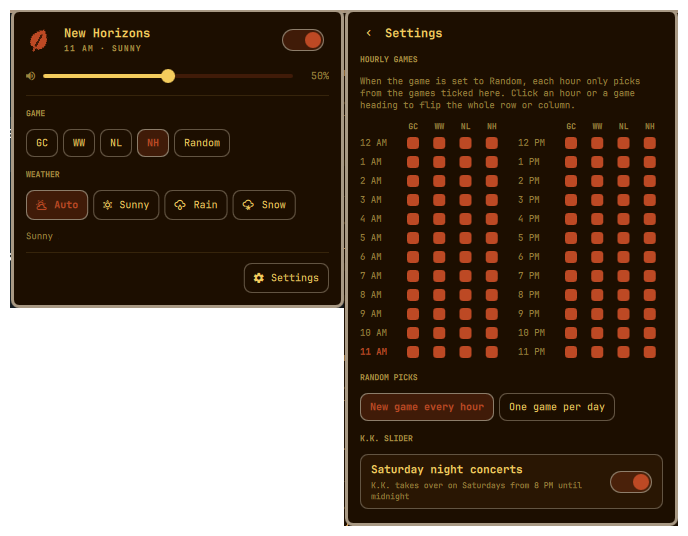
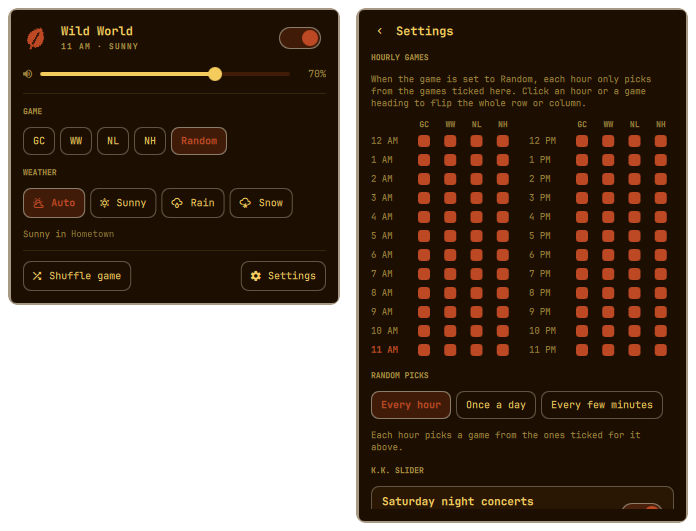
Detailed README with fresh screenshots; Space/Enter toggle playback
Rewrite the README to cover every control and setting: the bar icon, the
panel, each settings section, random-pick behavior, K.K. rules, other-media
and login options, the CLI, the config file keys, updating, troubleshooting,
and what the plugin talks to over the network. Add screenshots of the panel,
K.K. mode, the on-hold state, and both halves of Settings.

Space and Enter reach the panel as activate rather than text keys, so they
did nothing; they now play/pause as documented.

Changed region(s): [[0.0, 0.0, 1.0, 0.9944]]

diff --git a/Panel.qml b/Panel.qml
@@ -129,9 +129,11 @@ Panel {
         else root.close()
       }
       onTabRequested: function(direction) { root.switchPanel(direction) }
+      // Space and Enter arrive here rather than as text keys.
+      onActivateRequested: if (root.svc) root.svc.togglePlaying()
       onTextKey: function(t) {
         if (!root.svc) return
-        if (t === "p" || t === " ") root.svc.togglePlaying()
+        if (t === "p") root.svc.togglePlaying()
         else if (t === "n") root.svc.next()
         else if (t === "s") root.view = root.view === "main" ? "settings" : "main"
       }

diff --git a/README.md b/README.md
@@ -1,25 +1,50 @@
 # AC Hourly Music for Omarchy
 
-Animal Crossing's hourly music in your Omarchy bar. A leaf sits in the bar.
-Every hour on the hour the music changes, just like in the games. It can
-follow your real weather with the rain and snow versions, and K.K. Slider
-takes over on Saturday nights.
+Animal Crossing's hourly music in your [Omarchy](https://omarchy.org) bar.
 
-Nothing is downloaded to your machine; tracks stream on demand.
+A small leaf sits in your bar. Every hour, on the hour, the music changes to
+that hour's theme, just like in the games. It can follow your real weather
+with the rain and snow versions, mix the four games together, step aside
+when you play something else, and hand the stage to K.K. Slider on Saturday
+nights.
+
+Nothing is stored on your machine. Tracks stream on demand.
 
 ![The panel and its settings](preview.png)
 
+## Contents
+
+- [Features](#features)
+- [Install](#install)
+- [The bar icon](#the-bar-icon)
+- [The panel](#the-panel)
+- [Settings](#settings)
+  - [Hourly games](#hourly-games)
+  - [Random picks](#random-picks)
+  - [K.K. Slider](#kk-slider)
+  - [Playback](#playback)
+  - [When other media plays](#when-other-media-plays)
+  - [When I log in](#when-i-log-in)
+  - [Weather location](#weather-location)
+- [Command line and keybinds](#command-line-and-keybinds)
+- [Config file](#config-file)
+- [Updating and uninstalling](#updating-and-uninstalling)
+- [Troubleshooting](#troubleshooting)
+- [Network and privacy](#network-and-privacy)
+- [Credits](#credits)
+
 ## Features
 
-- **Four games:** Animal Crossing (GameCube), Wild World / City Folk, New Leaf, New Horizons, or **Random**.
-- **Real weather:** *Auto* plays the rain and snow versions when it's raining or snowing where you are. You can also lock it to Sunny, Rain, or Snow.
-- **Per-hour picks:** a 24-hour grid in Settings controls which games Random can choose for each hour. Don't like New Leaf's 11 AM theme? Untick it.
-- **Random every hour, once a day, or every few minutes:** shuffle between games' versions of the current hour's song every 10, 15, or 30 minutes, or any interval you like.
-- **K.K. Slider:** Saturday night concerts from 8 PM until midnight, or K.K. all the time. Choose live, aircheck, or both versions.
-- **Seamless loops:** songs loop at the game's loop points instead of restarting the intro.
-- **Steps aside for other media:** when YouTube Music, Spotify, a video, or any other media player starts, the music pauses (or drops its volume) and comes back on its own a few seconds after that stops.
-- **Your choice at login:** start playing automatically, wait for you to press play, or pick up where you left off.
-- Fades between tracks and can show a notification when the track changes.
+- **Four games:** Animal Crossing (GameCube), Wild World / City Folk, New Leaf, and New Horizons, or **Random** to mix them.
+- **Real weather:** on *Auto*, you hear the rain and snow versions when it's raining or snowing where you are. You can also lock it to Sunny, Rain, or Snow.
+- **Per-hour picks:** a 24-hour grid decides which games Random may choose each hour. Don't like New Leaf's 11 AM theme? Untick it and it never plays at 11 AM.
+- **Three ways to mix:** a new game every hour, one game all day, or switch every few minutes (10, 15, 30, or any interval you like).
+- **K.K. Slider:** Saturday night concerts from 8 PM to midnight, or K.K. all the time. Pick live versions, aircheck versions, or both.
+- **Seamless loops:** each song loops at the game's own loop point instead of restarting its intro.
+- **Steps aside for other media:** when YouTube Music, Spotify, a video, or any other player starts, the music pauses or turns down. It comes back by itself when that stops.
+- **Your choice at login:** start playing, wait for you to press play, or pick up where you left off.
+- **Fits Omarchy:** uses Omarchy's own panel styling, follows your theme, and works with any bar position.
+- **Scriptable:** a small `ac-music` command for terminals and keybinds.
 
 ## Install
 
@@ -27,63 +52,280 @@ Nothing is downloaded to your machine; tracks stream on demand.
 omarchy plugin add https://github.com/NinDaniel/omarchy-ac-music --enable
 ```
 
-The plugin needs `mpv` and `curl`, which Omarchy ships by default.
+The leaf appears on the right side of your bar and the music starts.
 
-## Using it
+**Requirements:** `mpv` and `curl`. Both come with Omarchy.
 
-| On the leaf  | Does                                         |
-|--------------|----------------------------------------------|
-| Left click   | Open the panel                               |
-| Right click  | Play / pause                                 |
-| Middle click | Shuffle to another game (Random) or skip a K.K. song |
-| Scroll       | Volume                                       |
+**Moving the leaf:** drag it along the bar like any other widget, or run:
 
-Inside the panel, press `p` to play or pause, `n` for next, `s` for Settings, and `Esc` to go back or close.
+```bash
+omarchy bar move danr.ac-music --section left    # left | center | right
+```
+
+## The bar icon
+
+| On the leaf  | What it does                                                  |
+|--------------|---------------------------------------------------------------|
+| Hover        | Shows what's playing (and whether it's paused or on hold)     |
+| Left click   | Opens the panel                                               |
+| Right click  | Play / pause                                                  |
+| Middle click | Shuffle to another game (Random) or skip to the next K.K. song |
+| Scroll       | Volume up / down in 5% steps                                  |
+
+The leaf is dimmed while the music is paused, on hold, or turned down.
+
+## The panel
+
+<p>
+  <img src="docs/panel.png" width="32%" alt="The main panel">
+  <img src="docs/kk.png" width="32%" alt="K.K. Slider playing">
+  <img src="docs/on-hold.png" width="32%" alt="On hold while another player plays">
+</p>
+
+From top to bottom:
+
+- **Now playing:** the game (or *K.K. Slider*) with the hour and weather underneath, or the song title and version during K.K. The switch on the right plays and pauses. A **Paused** or **On hold** tag shows when the music isn't playing.
+- **Volume:** the slider sets the plugin's own volume, separate from your system volume.
+- **Game:** **GC** (Animal Crossing on GameCube), **WW** (Wild World / City Folk), **NL** (New Leaf), **NH** (New Horizons), or **Random**. Hover a button for the full name. Picking a specific game always plays that game; the per-hour grid only applies to Random.
+- **Weather:** **Auto** follows the real weather. **Sunny**, **Rain**, and **Snow** lock it. On Auto, the line underneath shows the current conditions and where they're from.
+- **On hold:** when another player is playing, a line explains that the music is paused (or quieter) and will come back on its own.
+- **Shuffle game / Next song:** shows when it's useful. On Random it rolls a different game for now; during K.K. it skips to another song.
+- **Settings:** opens the settings view.
+
+**Keyboard**, while the panel is open:
+
+| Key         | Action                                      |
+|-------------|---------------------------------------------|
+| `p`, Space, or Enter | Play / pause                    |
+| `n`         | Shuffle game / next K.K. song               |
+| `s`         | Switch between the panel and Settings       |
+| `Esc`       | Back out of Settings, or close the panel    |
+| `Tab`       | Move to the neighbouring bar panel          |
+
+## Settings
+
+<p>
+  <img src="docs/settings-top.png" width="48%" alt="Settings: hourly games grid and random picks">
+  <img src="docs/settings-bottom.png" width="48%" alt="Settings: K.K., playback, other media, login, weather">
+</p>
+
+Every change saves immediately; there's no Save button.
+
+### Hourly games
+
+A grid of 24 hours by 4 games. When the game is set to **Random**, each hour
+only picks from the games ticked for that hour.
+
+- Click a box to tick or untick one game for one hour.
+- Click an **hour** (like `11 AM`) to tick or untick all four games for that hour.
+- Click a **game heading** (like `NL`) to tick or untick that game for all twelve hours in that half of the grid (AM or PM).
+- The current hour is highlighted.
+- An hour with **nothing** ticked behaves as if everything is ticked, so it never goes silent.
+
+The grid has no effect when you've picked a specific game.
+
+### Random picks
+
+How Random chooses a game. The line under the buttons explains the selected option.
+
+| Option                | What you hear |
+|-----------------------|---------------|
+| **Every hour**        | A new game each hour, chosen from that hour's ticked games. |
+| **Once a day**        | One game all day, from midnight to midnight on your computer's clock. If that game is unticked for some hour, that hour picks from its ticked games instead, then the day's game comes back. |
+| **Every few minutes** | Switches between the games' versions of the *current hour's* song. Pick **10 min**, **15 min**, **30 min**, or **Custom** (1 to 60 minutes). |
+
+Details worth knowing:
+
+- Picks are **stable**. The game is worked out from the date and hour, so restarting your computer or the shell mid-hour doesn't change what's playing.
+- **Every few minutes** lines up with the clock. At 15 minutes it switches at :00, :15, :30, and :45. With a custom interval that doesn't divide the hour, like 7 minutes, the last stretch before the hour is shorter, and the hour change always starts fresh.
+- Each hour gets its own shuffled order of games. Every switch lands on a **different** game, and all of the hour's ticked games play before any repeat. If only one game is ticked for an hour, it simply stays on that game.
+- **Shuffle game** (or a middle click) rolls a new pick or a new order. That lasts until the next hour.
+
+### K.K. Slider
+
+| Setting                     | What it does |
+|-----------------------------|--------------|
+| **Saturday night concerts** | K.K. takes over every Saturday from 8 PM until midnight (your local time), like in the games. On by default. |
+| **K.K. all the time**       | Plays K.K. songs instead of the hourly music, any day and any time. |
+| **Live / Aircheck / Both**  | *Live* is K.K. with his guitar; *Aircheck* is the full-band radio version; *Both* picks either at random for each song. |
+
+During K.K., songs play through once and the next starts automatically. They're
+drawn from 92 songs across the series and won't repeat until 20 others have
+played. The Game and Weather choices are ignored until K.K. is over.
+
+### Playback
+
+| Setting                 | What it does |
+|-------------------------|--------------|
+| **Fade between tracks** | Fades the old song out over about a second and a half when the hour, weather, or game changes. Off means an instant switch. |
+| **Notify on new track** | Shows a desktop notification with the game and hour (or K.K. song) whenever the music changes. Off by default. |
+
+### When other media plays
+
+Anything that shows up in Omarchy's media controls counts: YouTube or YouTube
+Music in a browser, Spotify, a video, VLC, and so on.
+
+| Option           | What happens |
+|------------------|--------------|
+| **Pause**        | The music pauses as soon as the other player starts (default). |
+| **Lower volume** | The music keeps going at a quarter of your volume. |
+| **Keep playing** | Nothing changes. |
+
+Once every other player has stopped or paused, the music comes back after about
+**3 seconds**. That short wait means the gap between two YouTube songs doesn't
+make it jump back in. Apps that don't report to the media controls (most games,
+for example) won't trigger it.
+
+### When I log in
+
+| Option            | What happens when you log in |
+|-------------------|------------------------------|
+| **Start playing** | The music starts every time (default). |
+| **Wait for me**   | It stays paused until you press play, then plays for the rest of that session. |
+| **Remember**      | It plays if it was playing when you logged out, and stays paused if it wasn't. |
+
+Only a real login counts. Restarting the Omarchy shell or updating the plugin
+keeps whatever was already happening.
 
 ### Weather location
 
-Auto weather uses the location set in Omarchy's own weather widget. If none is set, it detects your location the same way that widget does. To change it, set a location in the weather widget and the music follows.
+Auto weather uses the location set in **Omarchy's weather widget**. If you
+haven't set one, the plugin works out your location the same way that widget
+does (from your IP address). To change it, set a location in the weather widget
+and the music follows along; there's nothing to configure here.
 
-### Command line and keybinds
+The weather is checked when the plugin starts and every 20 minutes after that.
+Rain covers drizzle, rain, freezing rain, showers, and thunderstorms. Snow covers
+snowfall, snow grains, and snow showers. Everything else, cloudy and foggy
+included, counts as sunny.
 
-`bin/ac-music` wraps the plugin's IPC:
+The original GameCube game has no rain music, so on a rainy day it plays its
+sunny version (the panel says so).
 
-```bash
-ac-music toggle            # play / pause
-ac-music next
-ac-music game new-leaf     # animal-crossing | wild-world | new-leaf | new-horizons | random
-ac-music weather rain      # auto | sunny | rain | snow
-ac-music volume +5
-ac-music kk                # K.K. all the time on/off
-ac-music settings          # open the panel on Settings
-ac-music status
-```
+## Command line and keybinds
 
-To put it on your PATH:
+The plugin includes a small `ac-music` command. To put it on your PATH:
 
 ```bash
 ln -s ~/.config/omarchy/plugins/danr.ac-music/bin/ac-music ~/.local/bin/ac-music
 ```
 
-Example Hyprland binding in `~/.config/hypr/bindings.lua`:
+| Command                    | What it does |
+|----------------------------|--------------|
+| `ac-music toggle`          | Play / pause |
+| `ac-music play`            | Play |
+| `ac-music pause`           | Pause |
+| `ac-music next`            | Shuffle game (Random) or next K.K. song |
+| `ac-music status`          | Print what's playing, e.g. `Playing: New Leaf - 11 AM · Raining` |
+| `ac-music game <game>`     | `animal-crossing`, `wild-world`, `new-leaf`, `new-horizons`, or `random` |
+| `ac-music weather <mode>`  | `auto`, `sunny`, `rain`, or `snow` |
+| `ac-music volume <n>`      | Set the volume (`50`) or nudge it (`+5`, `-10`) |
+| `ac-music kk [on\|off]`    | K.K. all the time; toggles with no argument |
+| `ac-music panel`           | Open or close the panel |
+| `ac-music settings`        | Open the panel on Settings |
+
+Without the symlink, every command also works as
+`omarchy-shell danr.ac-music <command> [arg]` (for example
+`omarchy-shell danr.ac-music toggle`).
+
+Example keybinds for `~/.config/hypr/bindings.lua`:
 
 ```lua
 o.bind("SUPER + CTRL + M", "AC music play/pause", "ac-music toggle")
+o.bind("SUPER + CTRL + N", "AC music next", "ac-music next")
 ```
 
-### Config file
+## Config file
 
-Settings live in `~/.config/omarchy/ac-music.json` and apply live if you edit the file by hand.
+Settings live in `~/.config/omarchy/ac-music.json`. The panel writes it for
+you, but you can edit it by hand too; changes apply as soon as you save.
+Anything missing or invalid falls back to its default.
+
+| Key              | Values | Default |
+|------------------|--------|---------|
+| `playing`        | `true` / `false` | `true` |
+| `volume`         | `0` to `1` | `0.5` |
+| `game`           | `animal-crossing`, `wild-world`, `new-leaf`, `new-horizons`, `random` | `new-horizons` |
+| `weather`        | `auto`, `sunny`, `raining`, `snowing` | `auto` |
+| `randomMode`     | `hourly`, `daily`, `interval` | `hourly` |
+| `shuffleMinutes` | `1` to `60` (used by `interval`) | `15` |
+| `hours`          | `"0"` to `"23"`, each a list of allowed games | every game, every hour |
+| `kk.saturday`    | `true` / `false` | `true` |
+| `kk.always`      | `true` / `false` | `false` |
+| `kk.version`     | `live`, `aircheck`, `both` | `live` |
+| `fade`           | `true` / `false` | `true` |
+| `notify`         | `true` / `false` | `false` |
+| `otherMedia`     | `pause`, `lower`, `ignore` | `pause` |
+| `atLogin`        | `play`, `wait`, `resume` | `play` |
+
+For example, to keep New Leaf out of 11 AM:
+
+```json
+"hours": {
+  "11": ["animal-crossing", "wild-world", "new-horizons"]
+}
+```
+
+## Updating and uninstalling
+
+Update:
+
+```bash
+omarchy plugin update danr.ac-music
+omarchy restart shell
+```
+
+The restart matters. The part of the plugin that plays the music stays loaded
+in the background and only picks up new code when the shell restarts.
+
+Uninstall:
+
+```bash
+omarchy plugin remove danr.ac-music
+rm ~/.config/omarchy/ac-music.json    # optional: your settings
+```
+
+## Troubleshooting
+
+**No sound.** Run `ac-music status` (or `omarchy-shell danr.ac-music status`).
+If it says *Playing*, check that the volume slider isn't at 0%, and look for
+**AC Music** in your audio mixer; it appears there as its own app with its own
+volume. If it says *On hold*, another player is playing. Pause it, or switch
+**When other media plays** to *Keep playing*.
+
+**"Couldn't reach the music server."** You're offline, or the music server is
+down. The plugin tries again every 30 seconds by itself.
+
+**The weather looks wrong.** Check the location shown under Settings →
+Weather location. Set the right one in Omarchy's weather widget.
+
+**Changes after an update don't show up.** Run `omarchy restart shell`.
+
+**The leaf is missing from the bar.** Run `omarchy plugin enable danr.ac-music --section right`.
+
+## Network and privacy
+
+The plugin talks to three services:
+
+- **acmusicext.com:** the music itself. One song (usually 3 to 7 MB) per track
+  change: once an hour normally, at every switch in *Every few minutes* mode,
+  and once per song during K.K. Loops replay from memory and don't download again.
+- **api.open-meteo.com:** current weather for your coordinates, every 20 minutes,
+  only while Weather is on *Auto*.
+- **wttr.in:** only when Omarchy's weather widget has no location set, to work
+  out roughly where you are (the same thing the weather widget does).
+
+There's no account, no analytics, and nothing is sent anywhere else.
 
 ## Credits
 
 The music is streamed from the server run by the
-[Animal Crossing Music extension](https://github.com/animal-crossing-music-extension/ac-music-extension)
-project, the browser extension that inspired this plugin. The loop points and
-K.K. song list also come from that project (zlib license). This plugin
-requests one track per hour (one per song during K.K.), and it uses
-[Open-Meteo](https://open-meteo.com) for weather instead of the extension's
-weather API. If the extension's server goes away, this plugin stops working.
+[Animal Crossing Music extension](https://github.com/animal-crossing-music-extension/ac-music-extension),
+the browser extension that inspired this plugin. The loop points and the K.K.
+song list also come from that project (zlib license). This plugin uses
+[Open-Meteo](https://open-meteo.com) for weather instead of the extension's own
+weather service to keep the load on their server down. If their server goes
+away, this plugin stops working.
 
 Animal Crossing is a trademark of Nintendo. This is an unofficial fan project
 and is not affiliated with or endorsed by Nintendo.
